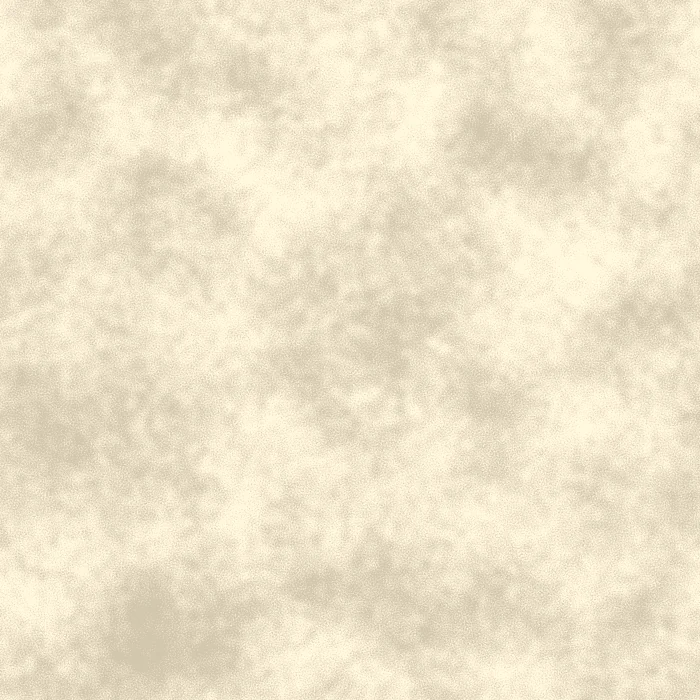
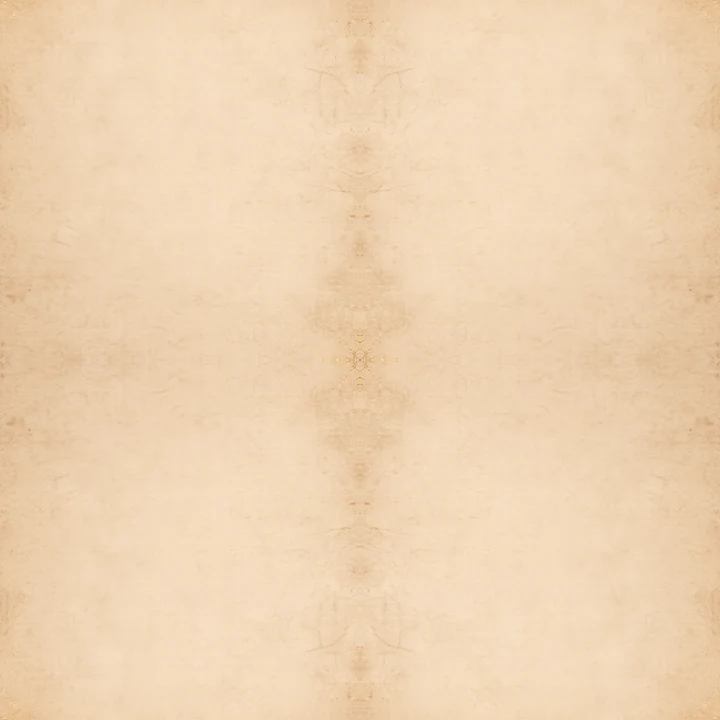
El pergamino ahora es tu imagen, no una textura generada
La hoja que subiste tiene un halo dorado difuso alrededor, sin borde
nitido, asi que recortarla fallo dos veces y lo compruebo diciendolo:
con umbral suave los pixeles del halo se quedaban a media opacidad
conservando su color oscuro y componian como una costra negra; con
umbral duro se comia las esquinas y quedaba un trozo amorfo, no una hoja.

Solucion: uso el INTERIOR de tu pergamino, que es la parte valiosa
(fibra, tono sepia, manchas), y el borde rasgado lo genera el filtro SVG,
que ademas se adapta a secciones de cualquier alto.

Para que embaldose intente primero fundir bordes opuestos. El numero decia
'costura invisible' pero se veia un damero clarisimo: mi metrica media la
costura del borde y yo habia creado costuras INTERNAS. Cambiado a mosaico
en espejo, que no puede tener costura por construccion (medido: 0.00).

Contraste rehecho contra el color real del papel nuevo, que es mas oscuro
que el generado. En su zona mas oscura: cuerpo 6.88:1, titulos 9.01:1,
y ningun elemento por debajo de 4.5:1.

diff --git a/index.html b/index.html
@@ -782,8 +782,8 @@ input,textarea,select{ cursor:auto !important }
 main.info .sec{position:relative;z-index:1;margin:34px auto;padding:52px 5vw 56px}
 main.info .sec::before{
   content:"";position:absolute;inset:0;z-index:-1;
-  background:url("assets/papel.webp?v=1") repeat;
-  background-size:520px 520px;
+  background:url("assets/papel.webp?v=2") repeat;
+  background-size:720px 720px;
   filter:url(#rasgado);                     /* bordes organicos, no un rectangulo */
   box-shadow:
     inset 0 0 90px rgba(126,92,40,.34),     /* envejecido hacia los bordes */
@@ -847,7 +847,7 @@ main.info .ba__slot{ background:rgba(180,150,100,.18); border-color:rgba(110,80,
 footer{position:relative;z-index:50}
 footer::before{
   content:"";position:absolute;inset:10px 4vw;z-index:-1;
-  background:url("assets/papel.webp?v=1") repeat;background-size:520px 520px;
+  background:url("assets/papel.webp?v=2") repeat;background-size:720px 720px;
   filter:url(#rasgado);
   box-shadow:inset 0 0 80px rgba(126,92,40,.32), 0 18px 40px rgba(0,0,0,.5);
 }
@@ -858,7 +858,7 @@ footer nav a:hover{color:#3a2a10}
 
 @media (max-width:700px){
   main.info .sec{padding:40px 7vw 44px;margin:22px auto}
-  main.info .sec::before{background-size:400px 400px}
+  main.info .sec::before{background-size:520px 520px}
 }
 @media (prefers-reduced-motion:reduce){
   main.info .sec::before, footer::before{filter:none}   /* el filtro SVG es caro de rasterizar */
